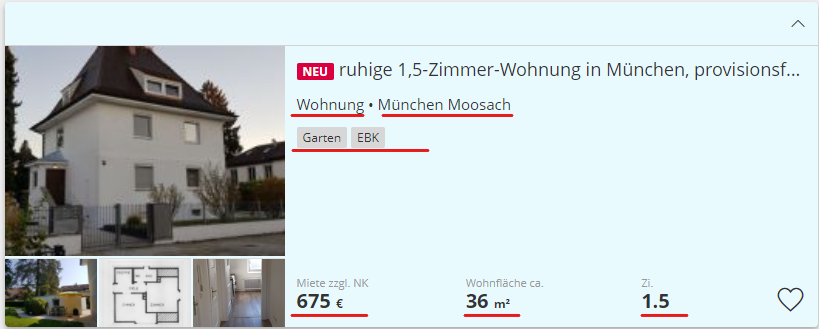
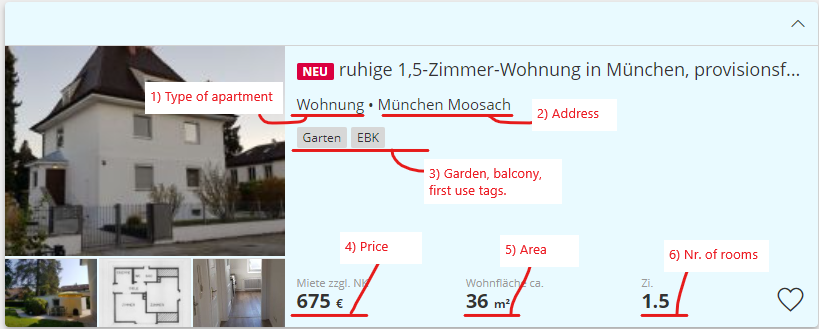
readme update

diff --git a/README.md b/README.md
@@ -1,13 +1,13 @@
 # Rent Predictor
 
-The rent predictor is a web app that uses machine learning to predict rents in Germany.
+The Rent Predictor is a web app that uses machine learning to predict rents in Germany.
 
 ## Data
 The training data consists of ~49'000 apartment ads, which were scraped from the German real estate platform immonet.de.
 
-<img src="plots/immonet_anzeige_annotated2.png" align="right" height="250"/>
+<img src="plots/immonet_anzeige_annotated.png" height="300"/>
 
-Each ad contains information about the aparment's
+Each ad contains information about the aparment's:
 
 1) Type
 2) Approximate address
@@ -15,3 +15,4 @@ Each ad contains information about the aparment's
 4) Price in €
 5) Are in m²
 6) Nr of rooms
+
